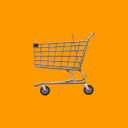
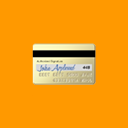
アイコンをショッピングカートからクレジットカードに変更し、関連する画像ファイルを更新

Changed region(s): [[0.25, 0.25, 0.75, 0.75]]

diff --git a/README.md b/README.md
@@ -81,7 +81,7 @@ ctx.fillRect(0, 0, 128, 128);
 ctx.font = '64px sans-serif';
 ctx.textAlign = 'center';
 ctx.textBaseline = 'middle';
-ctx.fillText('🛒', 64, 64);
+ctx.fillText('💳', 64, 64);
 
 const link = document.createElement('a');
 link.download = 'icon128.png';
